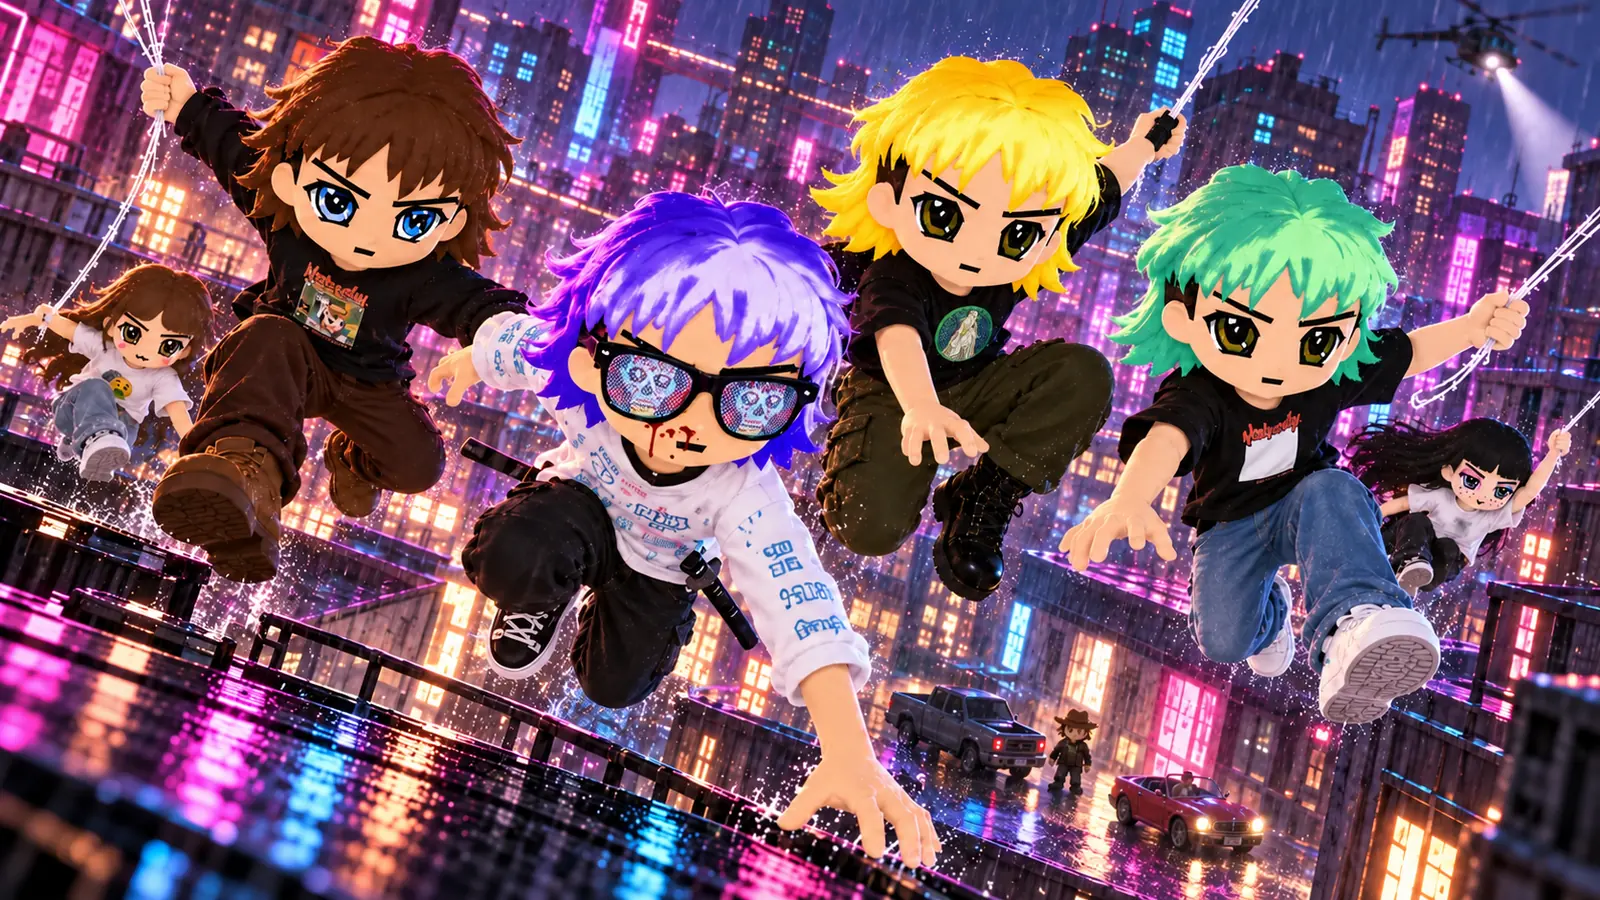
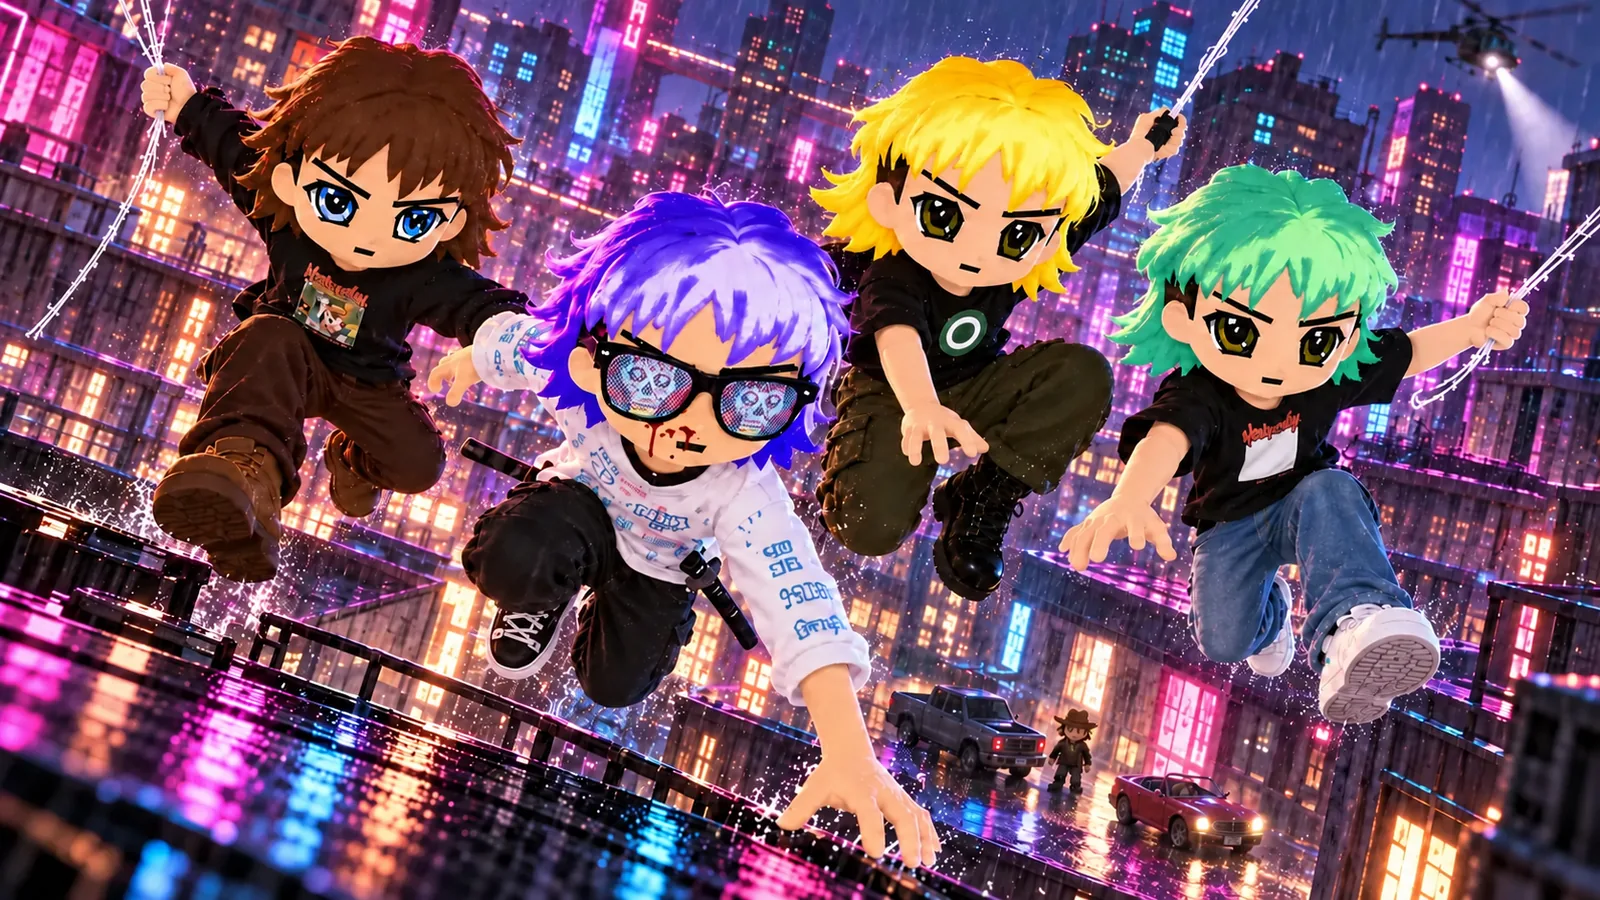
SPIDERTAG art: just the Radbros
The title art and the share card now show the main four and #723 only.
The share card moves to og4.jpg so X and Telegram fetch the new one.

diff --git a/index.html b/index.html
@@ -22,19 +22,19 @@
     <meta property="og:title" content="SPIDERTAG" />
     <meta property="og:description" content="Web-slinger tag over the rooftops: chase down the Radbro who swiped your bag, or play tag 1v1 with a friend." />
     <meta property="og:url" content="https://spidertag.vyvanse.beer/" />
-    <meta property="og:image" content="https://spidertag.vyvanse.beer/og.jpg" />
-    <meta property="og:image:secure_url" content="https://spidertag.vyvanse.beer/og.jpg" />
+    <meta property="og:image" content="https://spidertag.vyvanse.beer/og4.jpg" />
+    <meta property="og:image:secure_url" content="https://spidertag.vyvanse.beer/og4.jpg" />
     <meta property="og:image:type" content="image/jpeg" />
     <meta property="og:image:width" content="1200" />
     <meta property="og:image:height" content="630" />
-    <meta property="og:image:alt" content="SPIDERTAG: Radbros #4764, #652, yellow-haired #3704 and green-haired #3710 lead the rooftop chase, with Retardios #555 and #85" />
+    <meta property="og:image:alt" content="SPIDERTAG: Radbros #652, #4764, #3704 and #3710 web-swinging over a rainy neon city at night, with #723 down on the street." />
     <meta name="twitter:card" content="summary_large_image" />
     <meta name="twitter:site" content="@dexedrne" />
     <meta name="twitter:creator" content="@dexedrne" />
     <meta name="twitter:title" content="SPIDERTAG" />
     <meta name="twitter:description" content="Web-slinger tag over the rooftops: chase down the Radbro who swiped your bag, or play tag 1v1 with a friend." />
-    <meta name="twitter:image" content="https://spidertag.vyvanse.beer/og.jpg" />
-    <meta name="twitter:image:alt" content="SPIDERTAG: Radbros #4764, #652, yellow-haired #3704 and green-haired #3710 lead the rooftop chase, with Retardios #555 and #85" />
+    <meta name="twitter:image" content="https://spidertag.vyvanse.beer/og4.jpg" />
+    <meta name="twitter:image:alt" content="SPIDERTAG: Radbros #652, #4764, #3704 and #3710 web-swinging over a rainy neon city at night, with #723 down on the street." />
     <style>
       /* the SPIDERTAG wordmark and the title's menu (Bebas Neue), its terminal lines (VT323); both SIL OFL */
       @font-face { font-family: "Bebas Neue"; src: url(/fonts/BebasNeue.woff2) format("woff2"); font-display: swap; }
